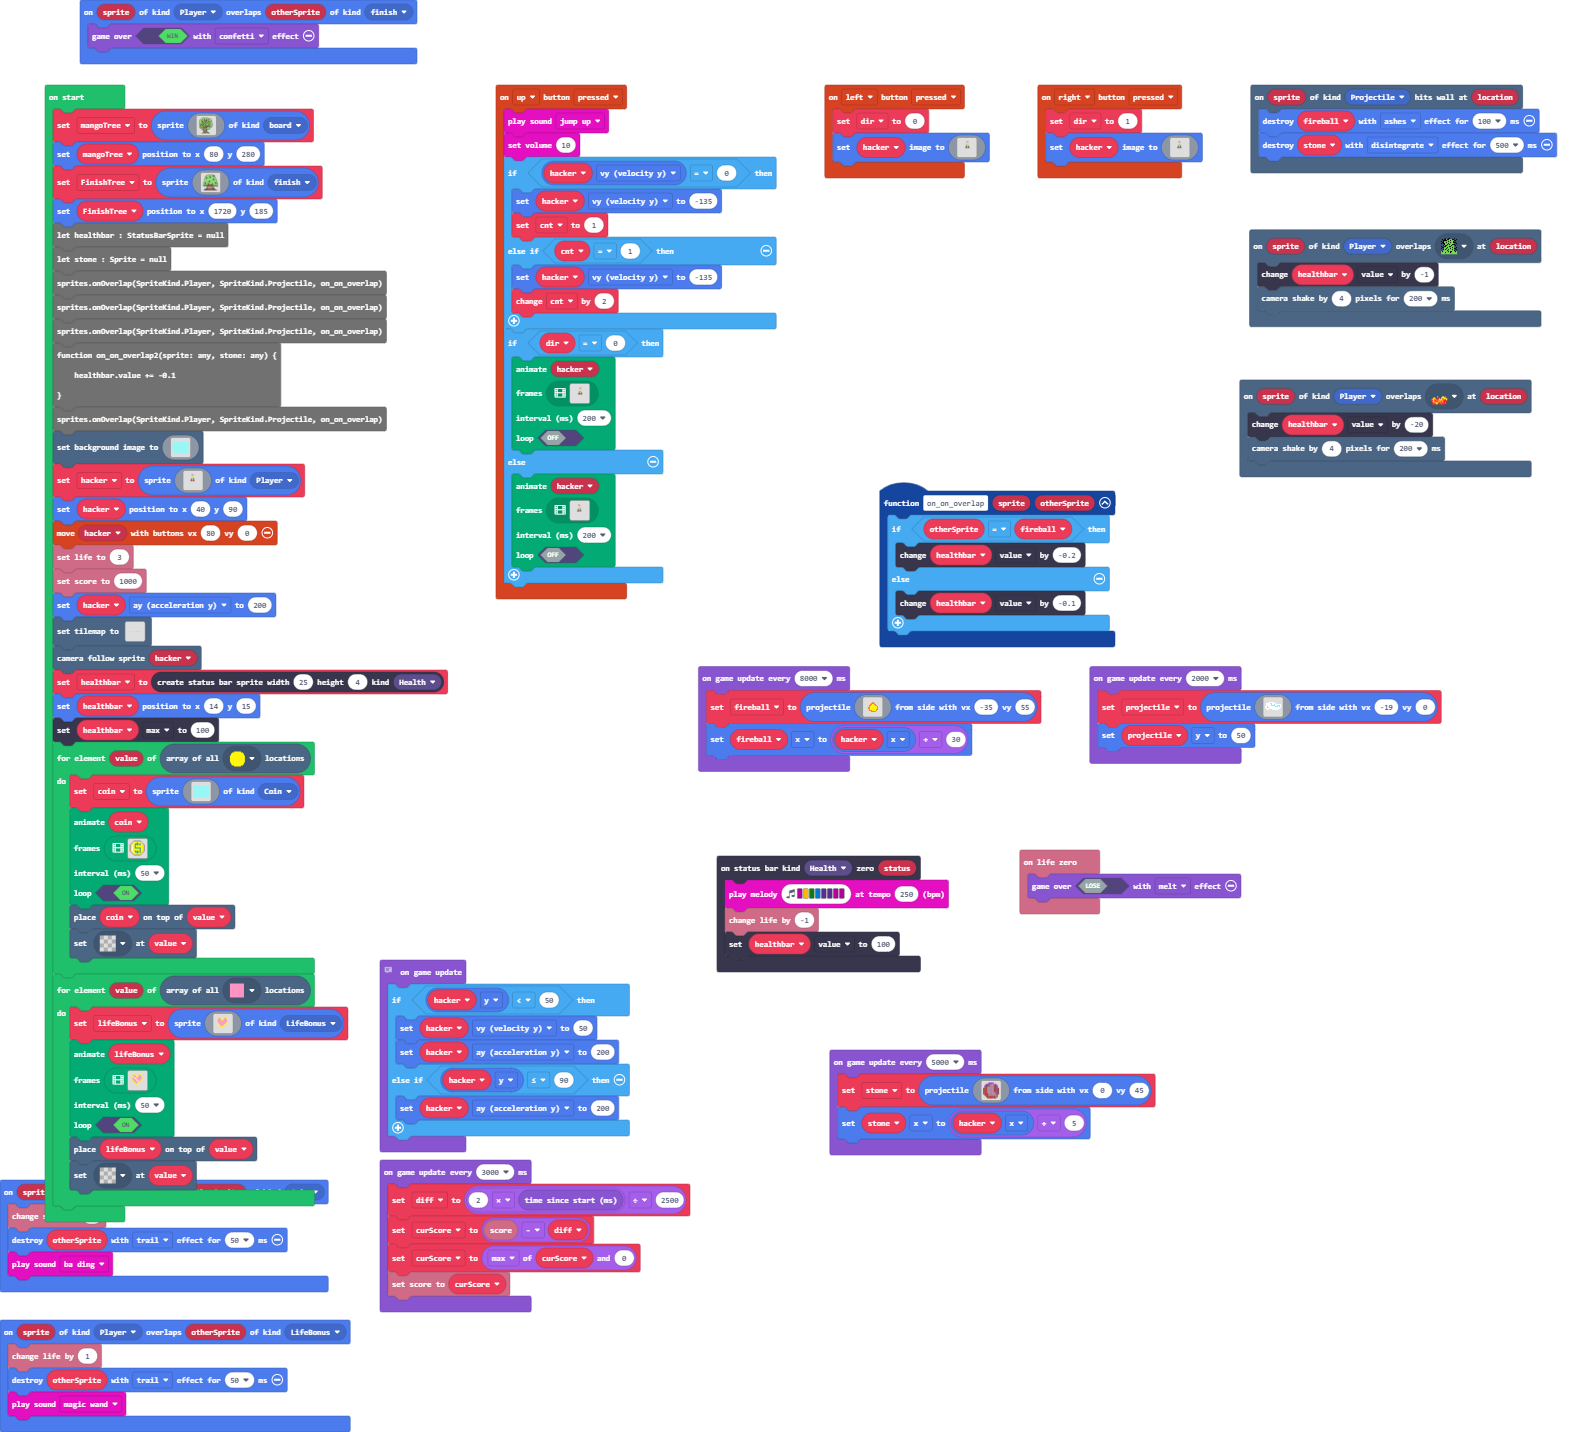
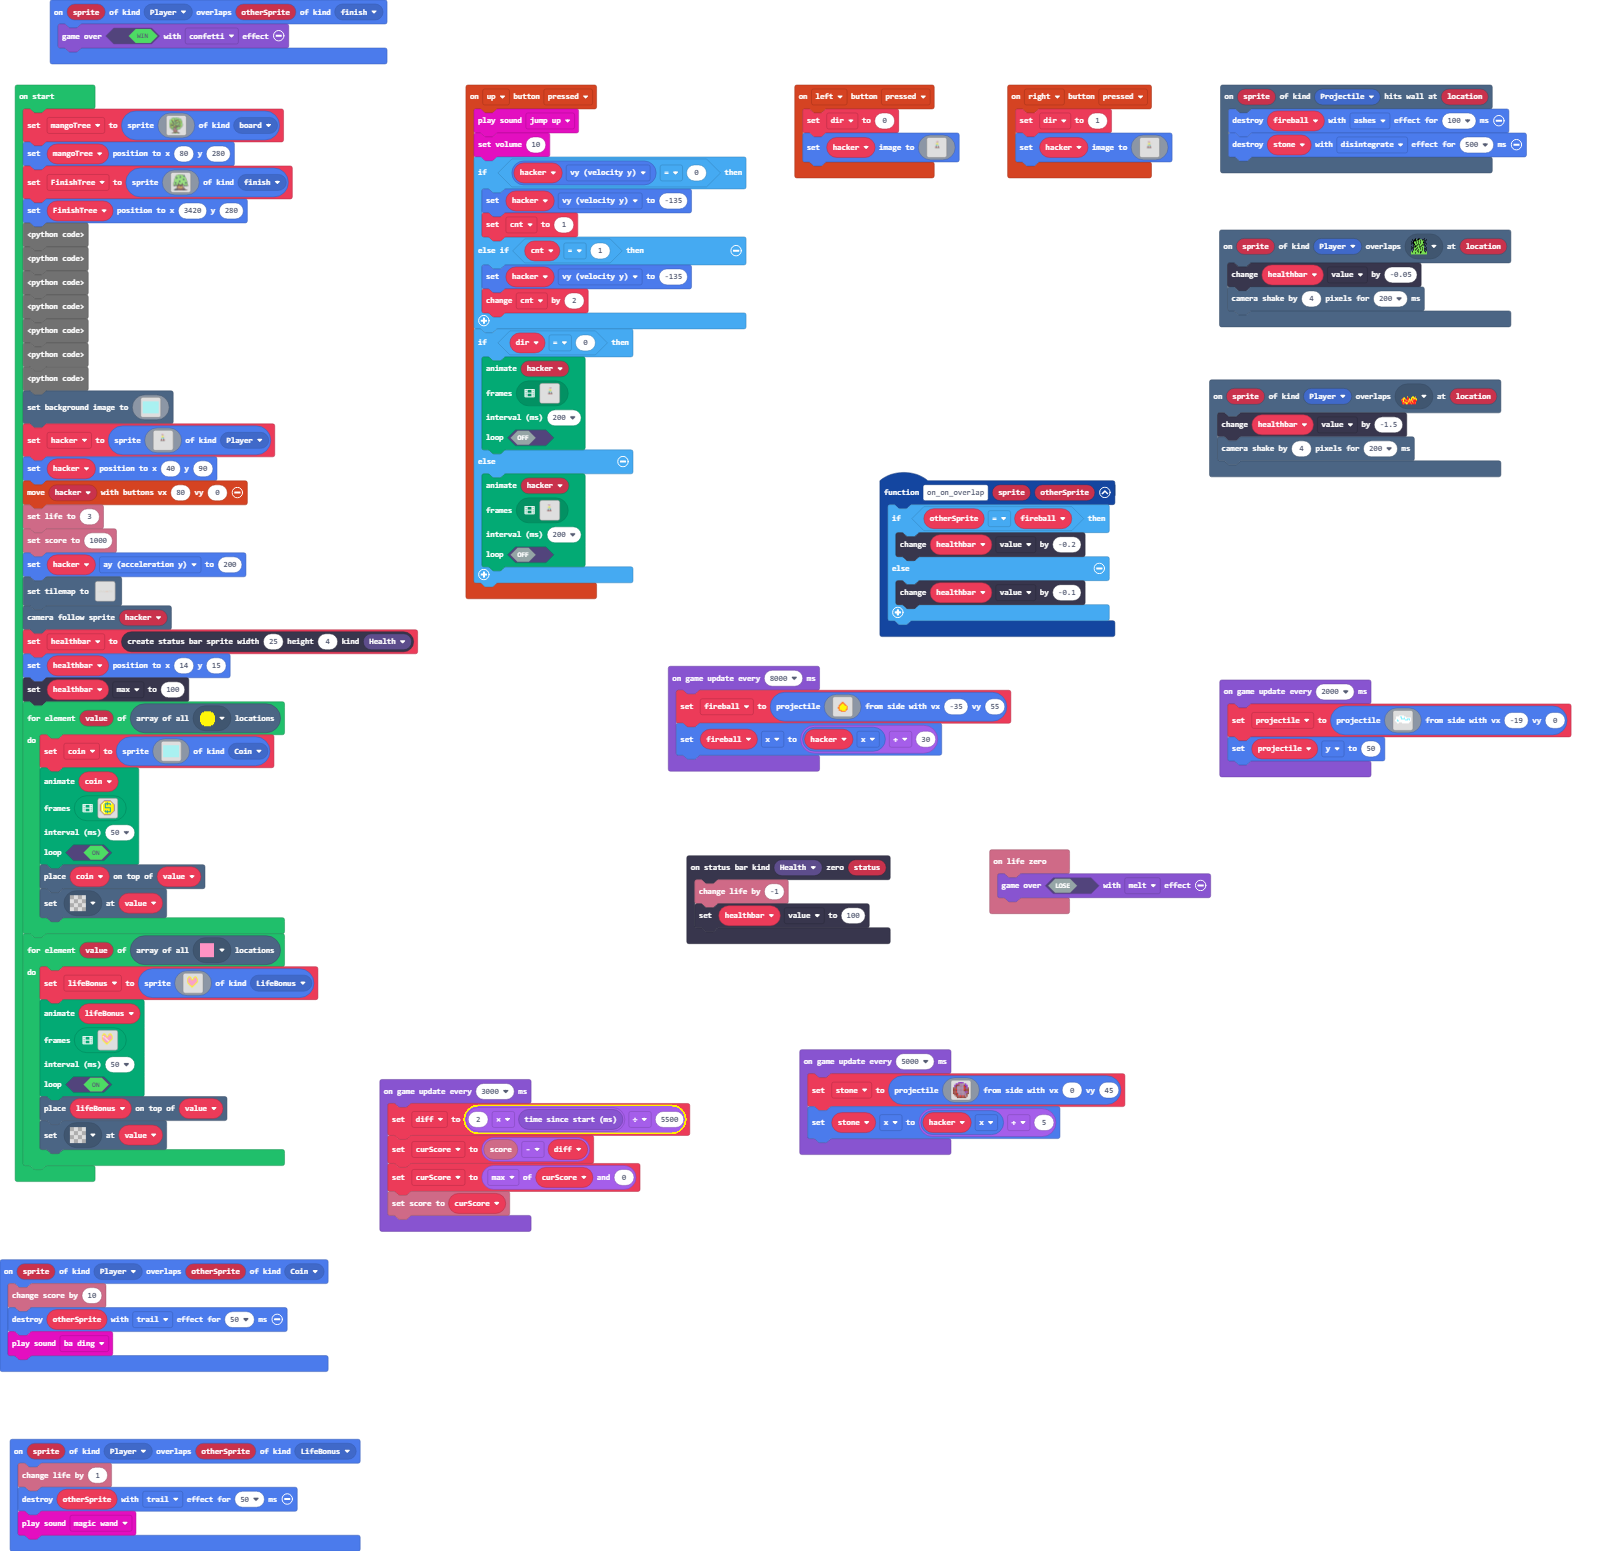
Update main.blocks, main.ts

diff --git a/main.ts b/main.ts
@@ -50,7 +50,6 @@ controller.left.onEvent(ControllerButtonEvent.Pressed, function () {
     hacker.setImage(assets.image`Temporary asset3`)
 })
 statusbars.onZero(StatusBarKind.Health, function (status) {
-    music.playMelody("C A G E D D C C ", 250)
     info.changeLifeBy(-1)
     healthbar.value = 100
 })
@@ -59,7 +58,7 @@ controller.right.onEvent(ControllerButtonEvent.Pressed, function () {
     hacker.setImage(assets.image`Temporary asset2`)
 })
 scene.onOverlapTile(SpriteKind.Player, assets.tile`cactus`, function (sprite, location) {
-    healthbar.value += -1
+    healthbar.value += -0.05
     scene.cameraShake(4, 200)
 })
 info.onLifeZero(function () {
@@ -77,7 +76,7 @@ function on_on_overlap (sprite: Sprite, otherSprite: Sprite) {
     }
 }
 scene.onOverlapTile(SpriteKind.Player, assets.tile`fireTop`, function (sprite, location) {
-    healthbar.value += -20
+    healthbar.value += -1.5
     scene.cameraShake(4, 200)
 })
 let curScore = 0
@@ -92,7 +91,7 @@ let hacker: Sprite = null
 let mangoTree = sprites.create(assets.image`mangoTree`, SpriteKind.board)
 mangoTree.setPosition(80, 280)
 let FinishTree = sprites.create(assets.image`finishTree`, SpriteKind.finish)
-FinishTree.setPosition(1720, 185)
+FinishTree.setPosition(3420, 280)
 let healthbar : StatusBarSprite = null
 let stone : Sprite = null
 sprites.onOverlap(SpriteKind.Player, SpriteKind.Projectile, on_on_overlap)
@@ -378,17 +377,6 @@ for (let value of tiles.getTilesByType(assets.tile`tileLife`)) {
     tiles.placeOnTile(lifeBonus, value)
     tiles.setTileAt(value, assets.tile`transparency16`)
 }
-// else:
-// hacker.ay = 0
-// hacker.vy = 0
-game.onUpdate(function () {
-    if (hacker.y < 50) {
-        hacker.vy = 50
-        hacker.ay = 200
-    } else if (hacker.y <= 90) {
-        hacker.ay = 200
-    }
-})
 game.onUpdateInterval(5000, function () {
     stone = sprites.createProjectileFromSide(assets.image`stone_img`, 0, 45)
     stone.x = hacker.x + 5
@@ -398,7 +386,7 @@ game.onUpdateInterval(2000, function () {
     projectile.y = 50
 })
 game.onUpdateInterval(3000, function () {
-    diff = 2 * game.runtime() / 2500
+    diff = 2 * game.runtime() / 5500
     curScore = info.score() - diff
     curScore = Math.max(curScore, 0)
     info.setScore(curScore)
